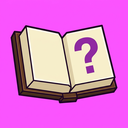
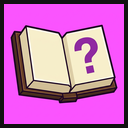
add borders

Changed region(s): [[0.0, 0.0, 1.0, 1.0]]

diff --git a/.py b/.py
@@ -1,8 +1,8 @@
 from pathlib import Path
 import argparse
-from PIL import Image
 
-# Supported input formats
+from PIL import Image, ImageDraw, ImageColor
+
 SUPPORTED_EXTENSIONS = {
     ".png",
     ".jpg",
@@ -19,20 +19,38 @@ SUPPORTED_EXTENSIONS = {
 
 def main():
     parser = argparse.ArgumentParser(
-        description="Resize images to a square and convert them to PNG."
+        description="Resize images to a square, add an inner border, and convert to PNG."
     )
     parser.add_argument(
-        "--size",
+        "--size", type=int, default=128, help="Output width and height (default: 128)."
+    )
+    parser.add_argument(
+        "--border-color",
+        default="#111",
+        help="Border color in hex or a Pillow-supported color name (default: #111).",
+    )
+    parser.add_argument(
+        "--border-thickness",
         type=int,
-        default=128,
-        help="Output width and height in pixels (default: 128).",
+        default=4,
+        help="Inner border thickness in pixels (default: 4).",
     )
     args = parser.parse_args()
 
     if args.size <= 0:
         parser.error("--size must be greater than zero.")
 
-    # Always work relative to this script's location
+    if args.border_thickness < 0:
+        parser.error("--border-thickness cannot be negative.")
+
+    if args.border_thickness * 2 > args.size:
+        parser.error("Border thickness cannot exceed half the image size.")
+
+    try:
+        border_color = ImageColor.getcolor(args.border_color, "RGBA")
+    except ValueError:
+        parser.error(f"Invalid border color: {args.border_color}")
+
     folder = Path(__file__).resolve().parent
     output_folder = folder / "output"
     output_folder.mkdir(exist_ok=True)
@@ -40,38 +58,45 @@ def main():
     images = [
         file
         for file in folder.iterdir()
-        if file.is_file()
-        and file.suffix.lower() in SUPPORTED_EXTENSIONS
-        and file.parent != output_folder
+        if file.is_file() and file.suffix.lower() in SUPPORTED_EXTENSIONS
     ]
 
     if not images:
         print("No supported images found.")
         return
 
+    processed = 0
+
     for image_path in images:
         try:
-            with Image.open(image_path) as img:
-                # Preserve transparency when present
-                has_alpha = img.mode in ("RGBA", "LA") or "transparency" in img.info
+            with Image.open(image_path) as source:
+                # Use the first frame for animated images.
+                source.seek(0)
 
-                img = img.convert("RGBA" if has_alpha else "RGB")
-
-                # Enforce an exact square size
+                # Preserve transparency and enforce a square canvas.
+                img = source.convert("RGBA")
                 img = img.resize((args.size, args.size), Image.Resampling.LANCZOS)
 
-                # Convert every output to PNG
-                output_path = output_folder / (image_path.stem + ".png")
+                # Draw the border inside the existing canvas.
+                if args.border_thickness > 0:
+                    draw = ImageDraw.Draw(img)
+                    draw.rectangle(
+                        (0, 0, args.size - 1, args.size - 1),
+                        outline=border_color,
+                        width=args.border_thickness,
+                    )
 
+                output_path = output_folder / f"{image_path.stem}.png"
                 img.save(output_path, format="PNG")
 
+                processed += 1
                 print(f"✓ {image_path.name} -> output/{output_path.name}")
 
         except Exception as error:
-            print(f"✗ Failed to process {image_path.name}: {error}")
+            print(f"✗ Failed: {image_path.name}: {error}")
 
-    print(f"\nDone! Processed {len(images)} image(s).")
-    print(f"Output folder: {output_folder}")
+    print(f"\nDone! Processed {processed}/{len(images)} image(s).")
+    print(f"Output: {output_folder}")
 
 
 if __name__ == "__main__":
